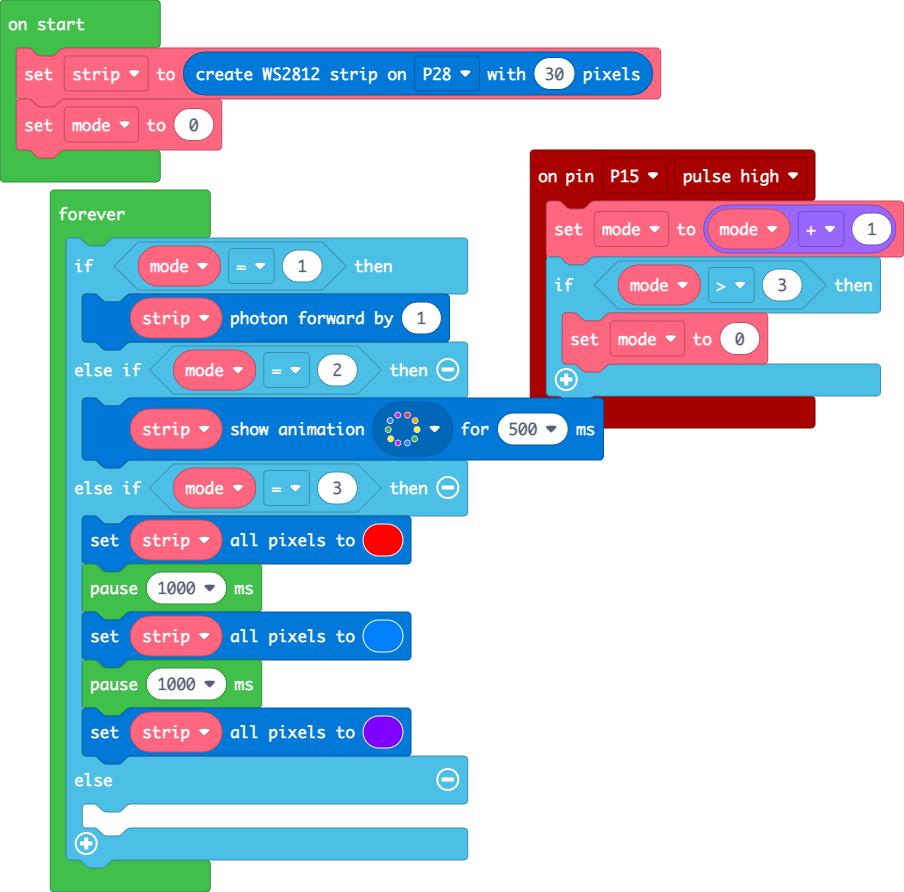
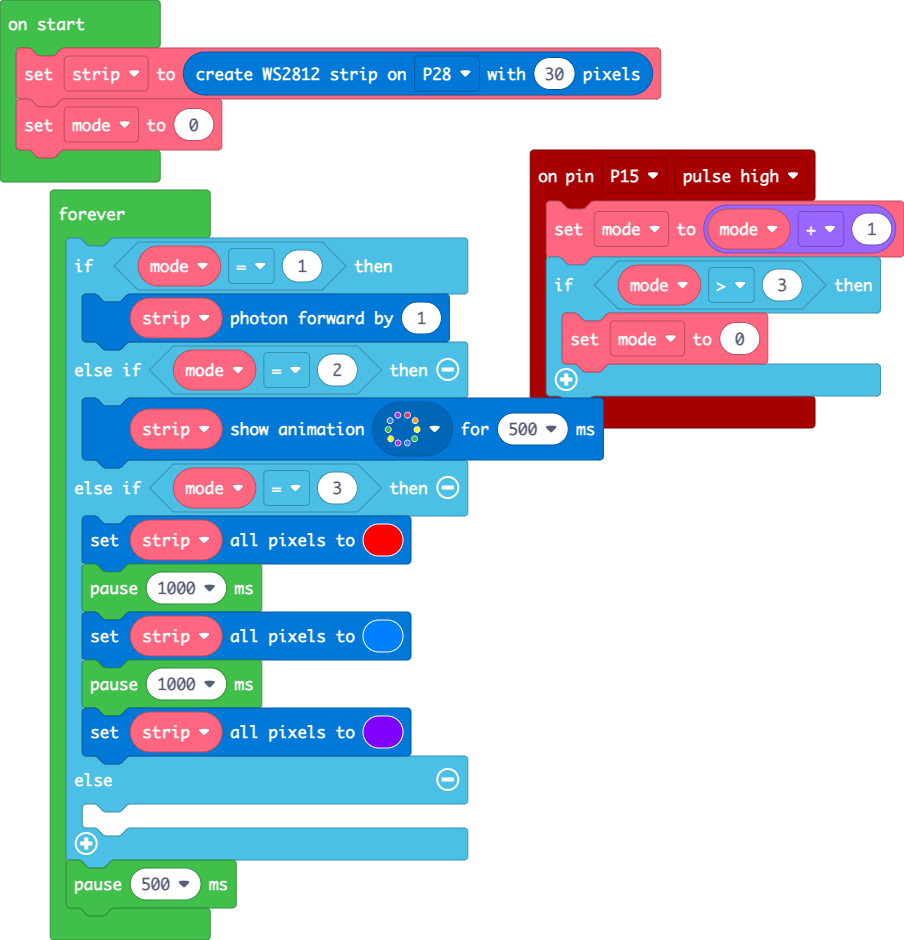
Update main.blocks, main.ts

diff --git a/main.ts b/main.ts
@@ -21,4 +21,5 @@ forever(function () {
     } else {
     	
     }
+    pause(500)
 })
